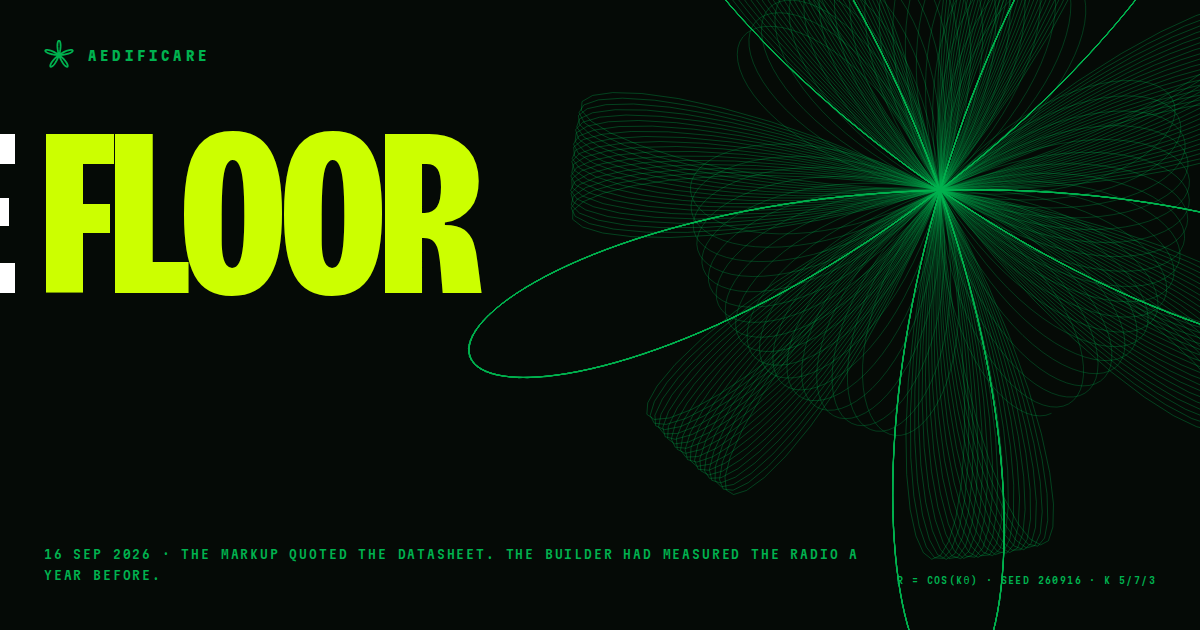
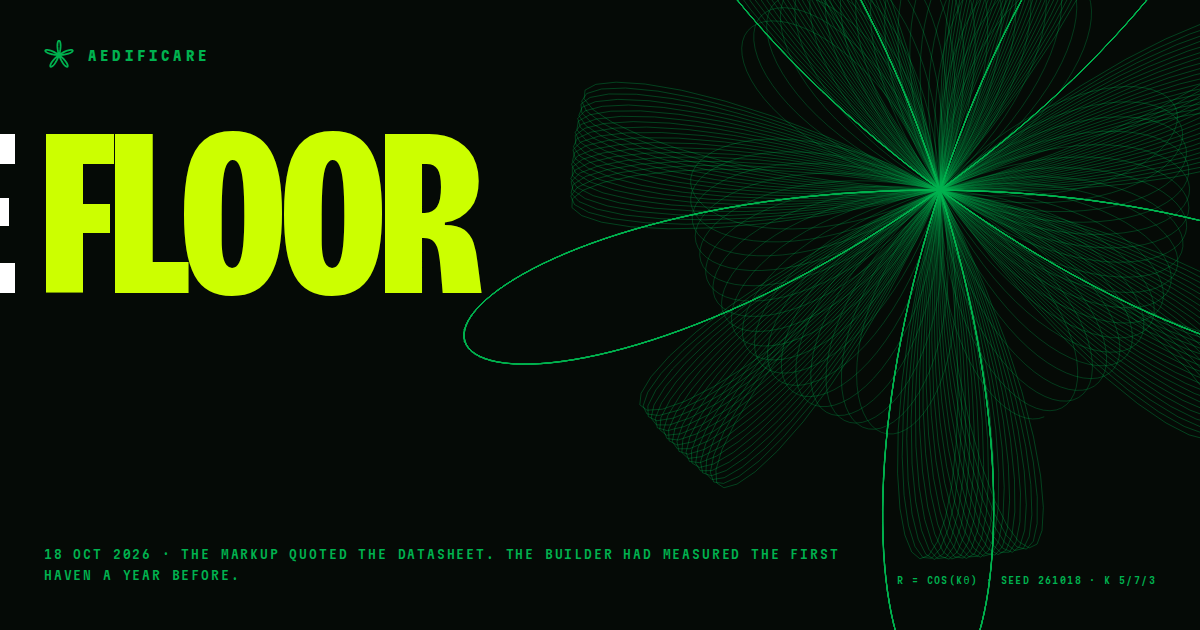
The Floor: every source opened, the page corrected, published 18 Oct
Five checkers by area opened every source and a skeptic per area
re-opened each flag: 90 flags, 76 upheld, 14 overturned. YouTube's own
record confirms the video (3 Sep 2025, 26:13); its automatic captions
stood in for the owner's transcript.

The largest fixes: the mile and the 2,000 feet are one spot, so the
page carries 2,000 feet; WPA3-SAE is the personal mode and covers each
hop, so the builder's "enterprise" and "end to end" are attributed and
corrected; the slap applied The Markup's two-node ratio to one radio;
the benches were eight months apart, and KAUST's was a field test;
1 MHz is the steepest step, not an exception; Meshtastic's rates are
rated maxima; the closing line put fifteen in the field. The Markup's
point-to-point line on Canada is amended here (RSS-247 s. 6.5 a covers
2.4 and 5.8 GHz only). Citation marks added; prices re-read today.

Dated the day it goes live, so it tops the registry and The Markup
reads "Amended 18 Oct 2026". Cards: The Floor's and the home's only;
The Countersign's renderer noise restored.

Claude-Session: https://claude.ai/code/session_01JGDwUGj2F3VZvpdApuzi7B

diff --git a/CLAUDE.md b/CLAUDE.md
@@ -31,7 +31,7 @@ Shipped (2026-09-15):
 | `/the-supply-cabinet` | 8 Oct 2026 · *The Supply Cabinet* (printed as Edition 06), eleven sections, twelve sources (ten cited) | live (2026-10-17, every source opened, 98 claims corrected) |
 | `/the-fourth-axis` | 6 Oct 2026 · *The Fourth Axis* (printed as Edition 05), twelve sections, thirty-eight sources, three registers | live |
 | `/the-tilt-gap` | 3 Oct 2026 · *The Tilt Gap* (printed as Edition 04), fifteen sections, fifty-one sources, F/I/Q marks | live |
-| `/the-floor` | 16 Sep 2026 · *The Floor*, amends The Markup with the builder's own field numbers | **draft**: set the date, flip `draft`, it goes live |
+| `/the-floor` | 18 Oct 2026 · *The Floor*, amends The Markup with the builder's own field numbers, ten sections, fourteen sources | live (2026-10-18, every source opened, the video checked against its captions) |
 | `/edition-03` | 15 Sep 2026 · *The Markup* (printed as Edition 03), eight sections, twelve sources | live |
 | `/edition-01` | 11 Sep 2026 · *The Snapshot Problem* (printed as Edition 01), twelve sections, thirty-three sources, three registers | live |
 | `/ns-01` | 11 Sep 2026 · *The Hand in the Water* (printed as NS-01) | live |
@@ -270,7 +270,7 @@ for a shortlist for bios and cards, which is a separate deliverable.
   scale."
 - **Client JS budget: 5 kB gzipped for the whole site**, enforced by
   `tools/check-budget.cjs` in the build. **Measured: 2,672 B** (the one
-  bundled script, 1,119 B, plus Astro's inline hydration shim on the-floor,
+  bundled script, 1,119 B, plus Astro's inline hydration shim on the-tilt-gap,
   1,553 B; the nine bytes over the earlier 2,663 are `drift()` moving into
   `src/lib/rose.mjs`, below). The rose must be computed live and the axis must move with the
   reader; that is the only JavaScript the brand earns.
@@ -1080,9 +1080,44 @@ for a shortlist for bios and cards, which is a separate deliverable.
    (Xu, Mankai and Alouini, arXiv 2605.17349, May 2026), the FCC rule as
    printed, Meshtastic's own preset table and Seeed's price today, and
    never added together. The amendment leaves Edition 03's text and PDF
-   as printed and links both ways through `amends`. The owner must still
-   confirm the video URL against their transcript and set the date on the
-   day it goes live.
+   as printed and links both ways through `amends`.
+   **Checked and published, 2026-10-18.** The video is confirmed from
+   YouTube's own record (title, channel, published 3 Sep 2025, 26:13).
+   Five checkers by area (the video and the vendor, the parts and
+   software, the paper, the rules and LoRa, the page against itself and
+   The Markup) opened every source, and a skeptic per area re-opened every
+   flag: 90 flags, 76 upheld (several found by more than one checker), 14
+   overturned. YouTube's automatic captions, read once through its public
+   player interface, stood in for the owner's transcript; soon after,
+   YouTube began asking the sandbox to sign in to prove it is not a bot,
+   and the builder stops there rather than route around it. What the
+   captions settled: the mile and the 2,000 feet are one spot, guessed on
+   foot and then stated in the voice-over, so the page carries 2,000 feet;
+   "enterprise" and "end to end" for WPA3-SAE are the builder's words, now
+   attributed to him and corrected (SAE is WPA3's personal mode, and it
+   covers each hop; Cisco's WPA3 guide and the vendor's own security
+   table); the Pi 4 was chosen because, he said, some OpenWrt firmware did
+   not quite work on the 5, and OpenWrt does run there now, so the page
+   names OpenMANET as what still lists no Pi 5; his dual-band dongle is his
+   claim beside the vendor's current 2.4 GHz part. Also corrected: the
+   slap applied The Markup's two-node forty-four to one radio; the two
+   benches were eight months apart, not a year, and KAUST's was a field
+   test, nowhere "indoors"; 1 MHz is the steepest step down, not an
+   exception; the paper predicts nothing about his radio, and his readings
+   sit above it; Meshtastic's rates are rated maxima, not throughput, and
+   no Meshtastic node runs on a coin cell; the closing line put fifteen in
+   the field; and the vendor had already written down a rule of thumb (40
+   to 60 percent of the physical rate, in his repository since 26 Feb
+   2026) and a rough real-world figure, so the datasheet is where The
+   Markup looked, not all there was. The builder benched the MM8108 itself
+   in January 2026; its numbers sit behind YouTube's wall. One sentence of
+   The Markup was wrong too: RSS-247's higher e.i.r.p. for point-to-point
+   links is for 2.4 and 5.8 GHz only (s. 6.5 a). The Floor amends it and
+   The Markup stays as printed, as it does for the throughput row.
+   Notebookcheck's summary of the builder's later network contradicted
+   his own post, so the post replaced it. The page carries the house
+   citation marks. Prices re-read the day it went live: Seeed $14.99,
+   Parallel $97 and $208 to $450.
 5. **A research file, "The Algorithmic Aedificare" (2026-09-16), was not
    added.** A machine-written survey of organoid computing, acoustic
    metamaterials, 4D mesh generation and robotic timber, framed as the
